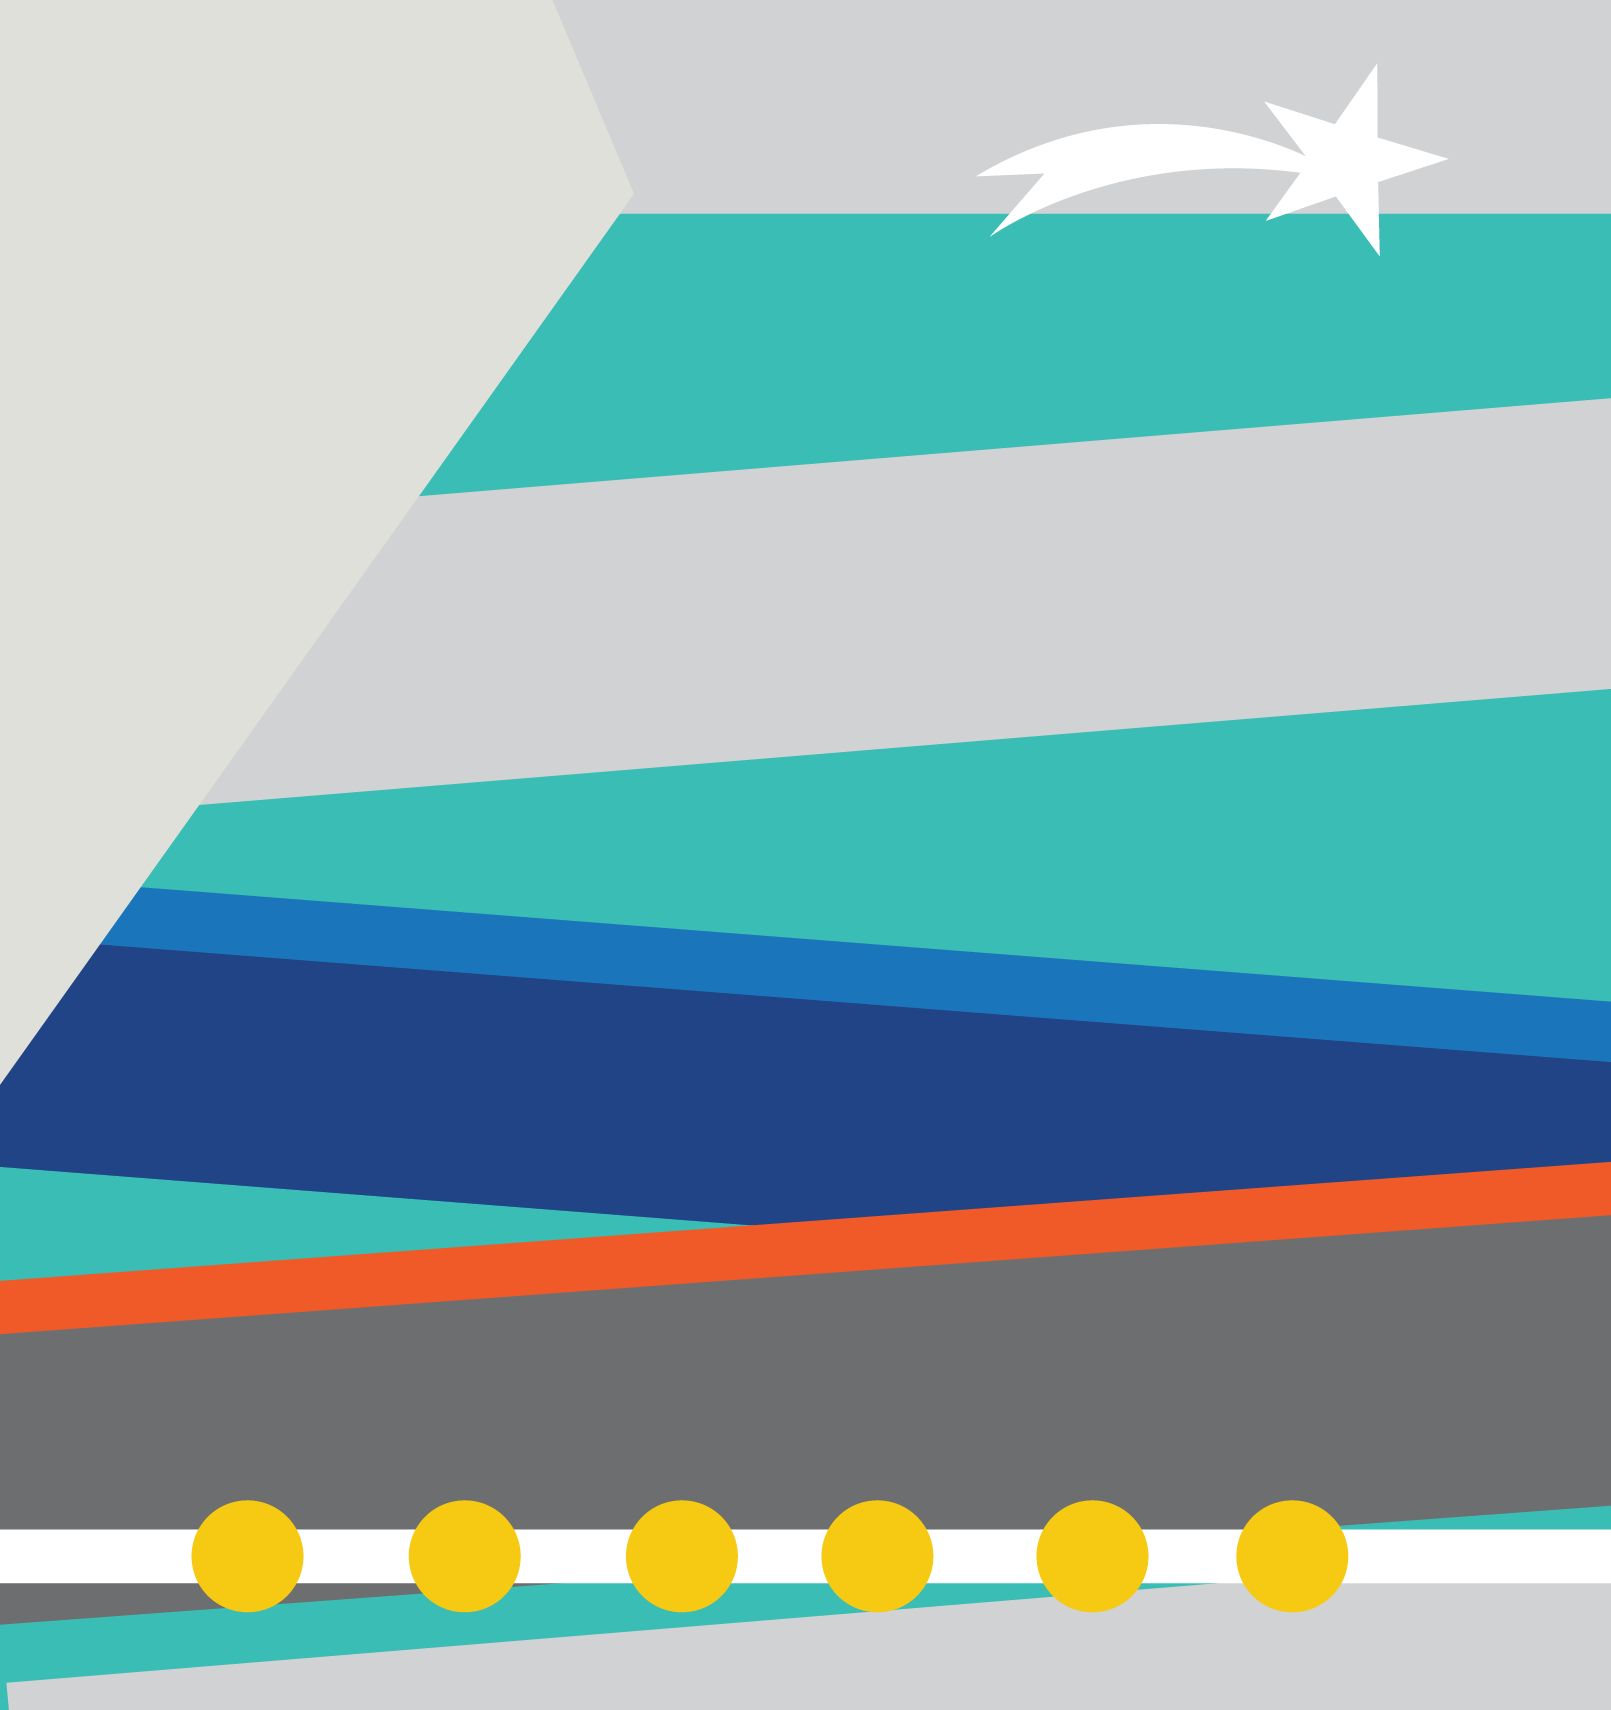
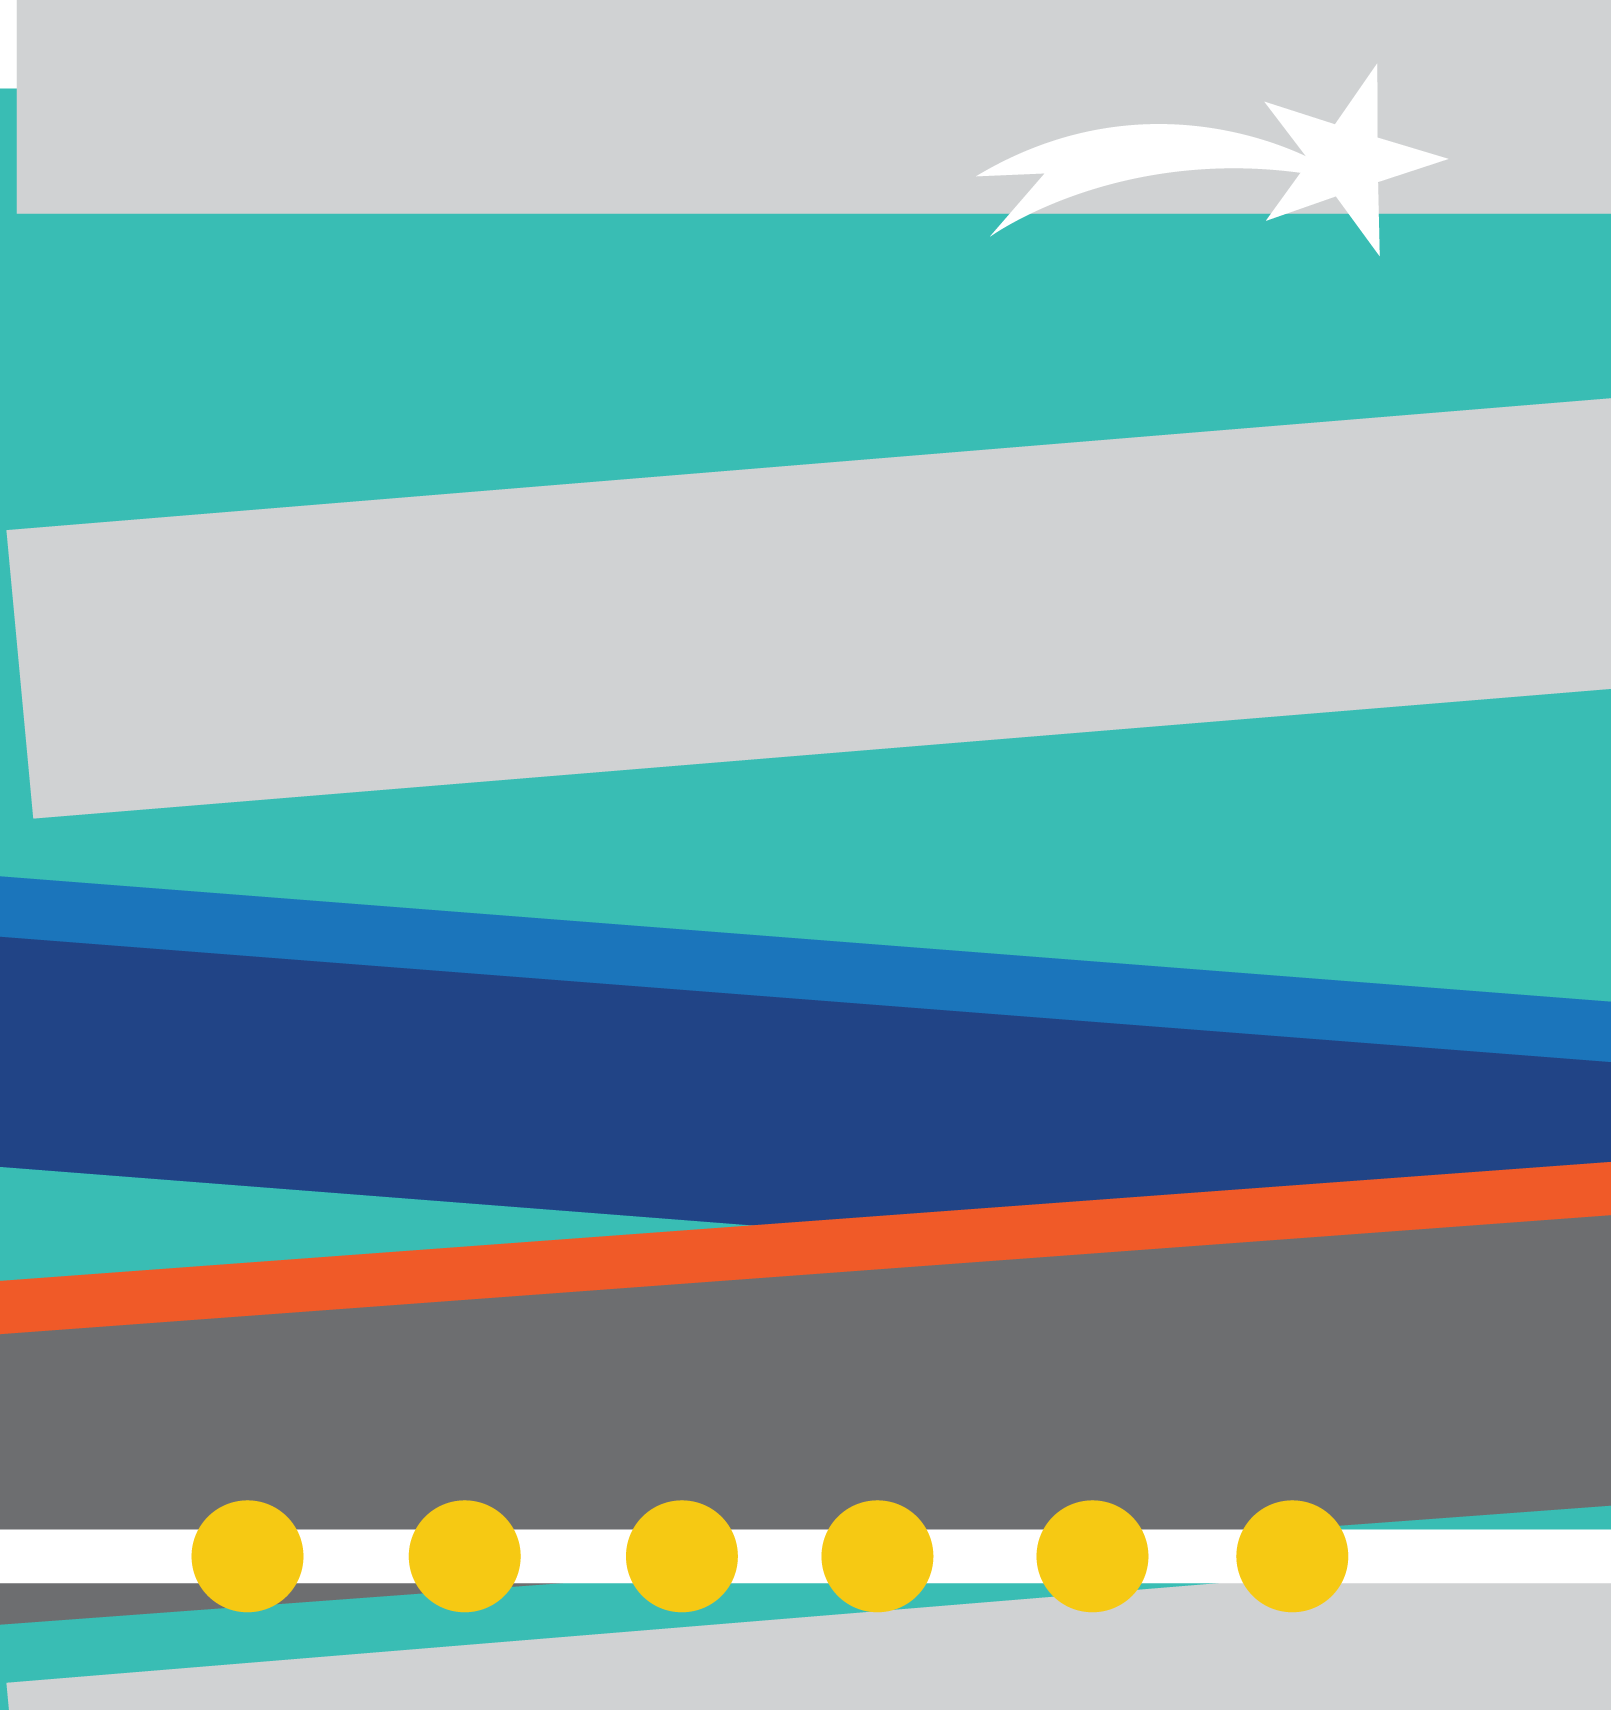
Nuevo izena-fnd-01.png

Changed region(s): [[0.0, 0.0, 0.4035, 0.6199]]

diff --git a/index.html b/index.html
@@ -2,7 +2,7 @@
 <html>
   <head>
     <meta charset="utf-8">
-    <meta name="viewport" content="width=device-width, initial-scale=1, maximum-scale=1" /> 
+    <meta name="viewport" content="width=device-width, initial-scale=1, maximum-scale=1" />
     <title>Web de Roberto Gutiérrez. El payo que dibuja</title>
     <link rel="stylesheet" href="css/normalize.css">
     <link rel="stylesheet" href="css/master.css">
@@ -27,21 +27,26 @@
         </article>
         <article class="" id="anterior"> <!-- proyecto anterior -->
           <h2>Proyecto anterior:</h2>
-          <figure>
+          <figure id="olentzero">
             <img src="img/olentzero-01.png" alt="">
           </figure>
+          <figure>
+            <img src="img/izena-fnd-01.png" alt="">
+          </figure>
           <h3>Olentzero Joan Zaigu. <span class="texto_reducir">Confirma que la carta al Olentzero ha llegado correctamente y que el Olentzero ha entendido su letra (importante)</span></h3>
-          <p>www.olentzero.online</p>
+          <p><a href="www.olentzero.online">www.olentzero.online</a></p>
         </article>
       </section> <!-- fin del section proyectos -->
       <section> <!-- quién soy -->
 
       </section> <!-- fin del section quién soy -->
       <section id="contacto"> <!-- Contacta conmigo -->
-        <h1>Ahora sigo creyendo que voy a cambiar el mundo, pero creo que ocurrirá sin prentenderlo ya en realidad.</h1>
+
         <figure>
           <img src="img/logo-EL-2-01.png" alt="">
         </figure>
+        <!-- <h1>Ahora sigo creyendo que voy a cambiar el mundo, pero creo que ocurrirá sin prentenderlo ya en realidad.</h1> -->
+        <h1>¿Qué necesitas? Quizás tenga una idea que te pueda servir...</h1>
       </section> <!-- Fin de contacta conmigo -->
       <footer>
         <p>www.elpayoquedibuja.org<br/>

diff --git a/css/master.css b/css/master.css
@@ -4,6 +4,7 @@ body {
   background-color: #A4B2D8;
   font-family: sans-serif;
   padding: 0 4% 0 4%;
+  margin: 40px auto 40px auto;
 }
 
 h1 {
@@ -62,23 +63,25 @@ figure {
 }
 
 #anterior {
-  height: 700px;
+  height: auto;
   width: 100%;
   margin: 0px;
   background-color: #D0D3D4;
   text-align: center;
   color: #1B75BB;
-  padding: 0 3% 0 3%;
+  padding: 0 3% 50px 3%;
 }
 
-#anterior figure {
+#olentzero {
   background-image: url("../img/olentzero-fnd-01.png");
-  background-size: 100% auto;
   background-repeat: no-repeat;
+  background-size: 100% auto;
+
+
 }
 
 #anterior img {
-  width: 100%;
+  width: 80%;
 }
 
 #contacto {
@@ -92,4 +95,35 @@ figure {
 .texto_reducir {
   font-size: 90%;
   font-weight: normal;
+}
+
+@media only screen and (min-width: 768px)
+{
+
+body {
+  max-width: 60%;
+  border: 1px solid #698793;
+  padding: 0;
+}
+
+header figure img {
+  width: 20%;
+}
+h1, h3 {
+    padding: 0 20% 0 20%;
+  }
+
+#anterior {
+    height: 1100px;
+  }
+
+#anterior img {
+  width: 60%;
+}
+
+
+
+
+
+
 }
